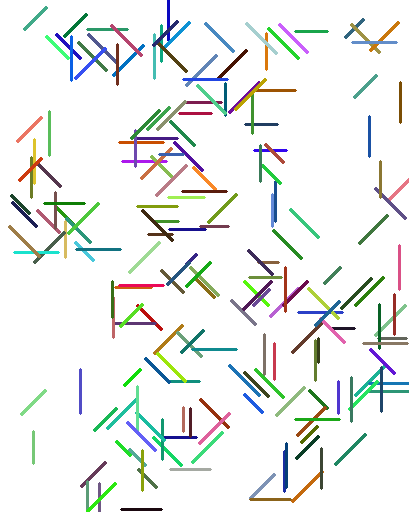
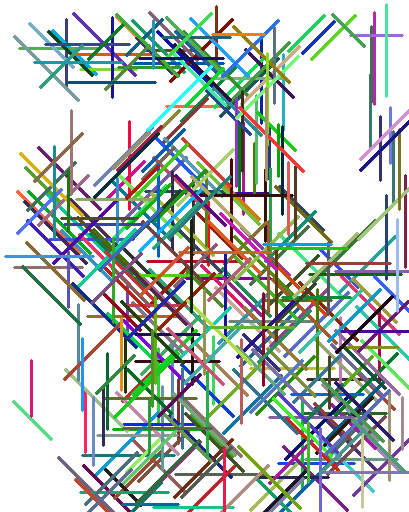
Fixes

diff --git a/2/genetic.py b/2/genetic.py
@@ -41,7 +41,7 @@ def fit(img, x, y, u, v):
 src = cv2.imread("source.png")
 
 # radius range
-L = (4, 24)
+L = (12, 24)
 # image size
 W, H = src.shape[:2]
 # thichkness
